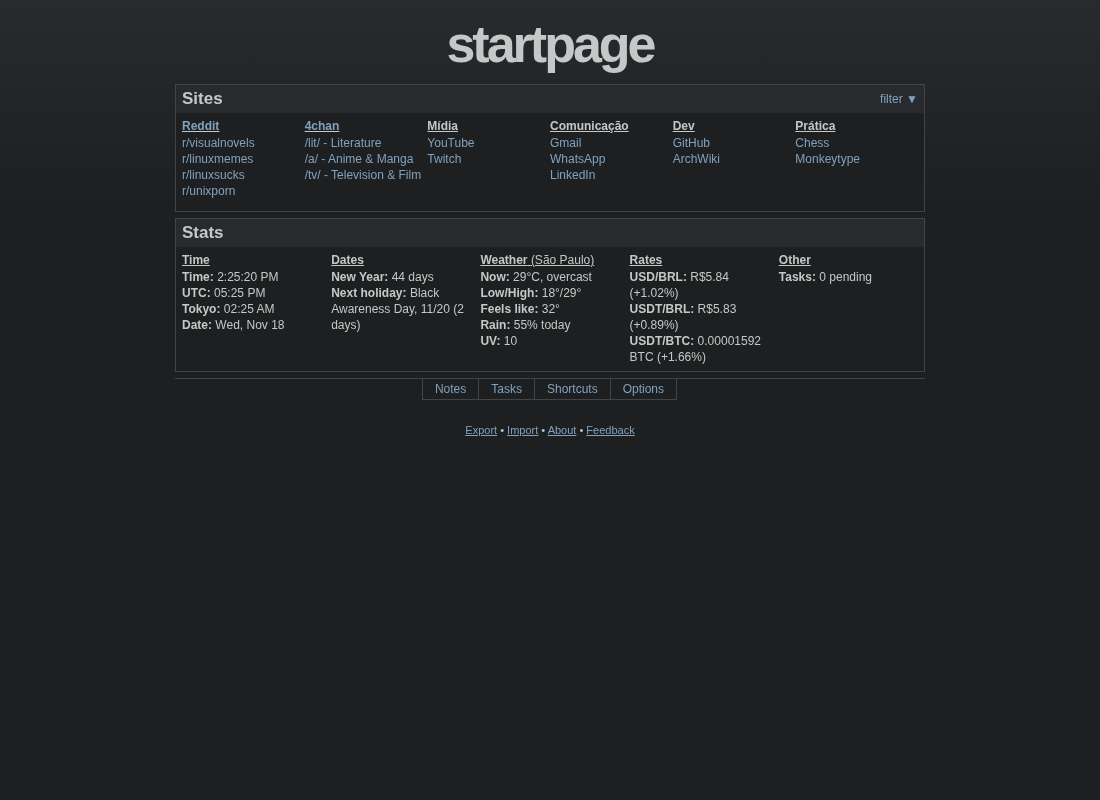
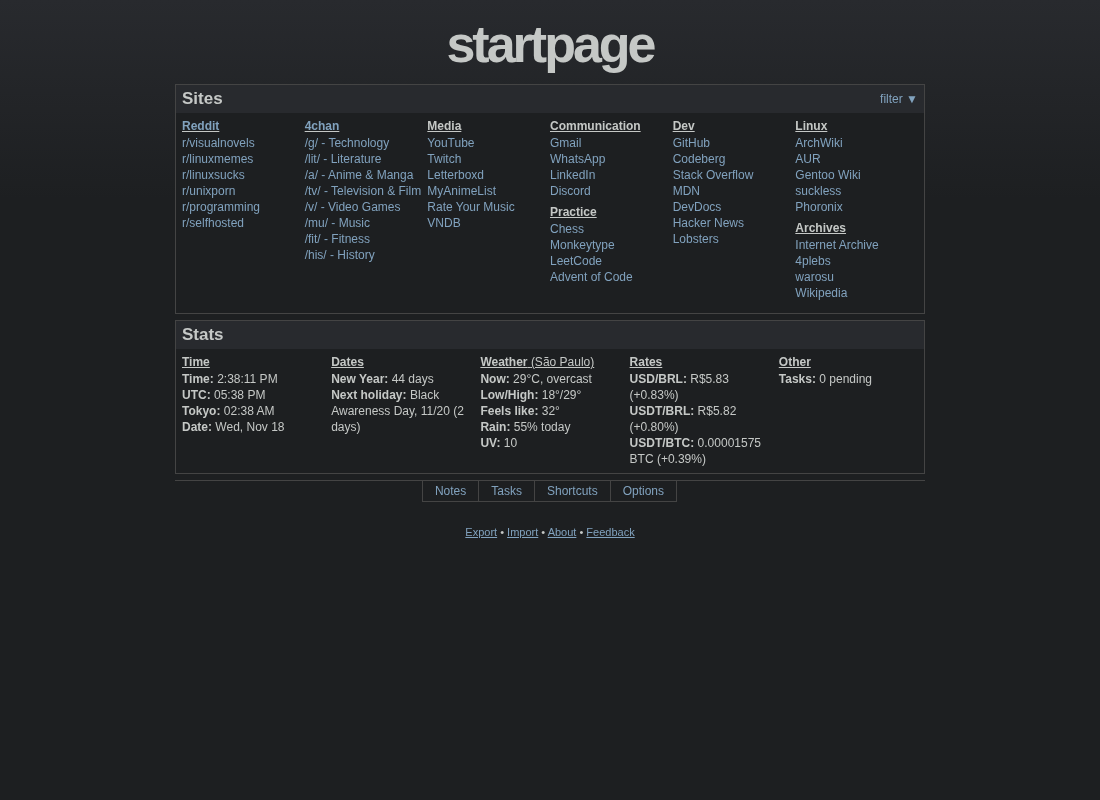
README: plainer text; retake screenshots with an English demo link list

diff --git a/README.md b/README.md
@@ -1,58 +1,59 @@
 # startpage
 
-I've been spending a lot of time on 4chan lately, and at some point I thought: why not make my browser start page look like it?
-So here it is, a start page that borrows 4chan's design and decided to be useful.
-One `index.html`, no build step, no server, no framework. Just open it and go.
+I've been using 4chan a lot lately and wanted a browser start page with the same look, so I made one.
+
+It's a single `index.html`. No build, no server, no dependencies.
 
 ![startpage](docs/yotsuba.png)
 
 ## Themes
 
-Three flavours, with or without a picture in the middle:
-
-| Theme | Plain | With display image |
+| Theme | Without image | With image |
 |---|---|---|
 | Yotsuba | ![](docs/yotsuba.png) | ![](docs/yotsuba-image.png) |
 | Yotsuba B | ![](docs/yotsuba-b.png) | ![](docs/yotsuba-b-image.png) |
 | Dark | ![](docs/dark.png) | ![](docs/dark-image.png) |
 
-## What it does
+## Features
 
-- **Sites** in tidy columns that stretch to fill the board. Edit them as JSON in Options.
-- **Stats**: clock, extra time zones, countdowns, next public holiday, weather (pick what you care about: low/high, feels like, rain, UV, humidity, wind, sunrise/sunset) and currency rates, crypto included (`USDT/BRL`, `USDT/BTC`…).
-- **Notes** and **Tasks** that save as you type.
-- **filter ▼ → Use Frames** for an old-school sidebar with every link.
-- **Options** in a draggable popup. Type `!blank` as the title if you want no title at all.
-- Keyboard: `n` notes, `t` tasks, `o` options, `f` frames, `Esc` to back out.
+- Links grouped by category, edited as JSON in Options. Columns adjust to the width.
+- Stats: time, extra time zones, date, countdowns, next holiday, weather, currency rates (fiat and crypto), pending tasks.
+- Weather fields are selectable: now, low/high, feels like, rain, UV, humidity, wind, sunrise/sunset.
+- Notes and tasks, saved automatically.
+- Optional image between Sites and Stats.
+- Sidebar with all links (filter ▼ → Use Frames).
+- Options open in a draggable popup. Title `!blank` hides the title.
+- Shortcuts: `n` notes, `t` tasks, `o` options, `f` frames, `Esc` close.
 
 | Frames | Options |
 |---|---|
 | ![](docs/frames.png) | ![](docs/options.png) |
 
-## Use it
+## Usage
 
-Point your browser's home page at the file:
+Set the browser home page to:
 
 ```
 file:///path/to/startpage/index.html
 ```
 
-- **Firefox:** Settings → Home → Homepage and new windows → Custom URLs.
-- **Chrome:** Settings → On startup → Open a specific page.
+- Firefox: Settings → Home → Homepage and new windows → Custom URLs.
+- Chrome: Settings → On startup → Open a specific page.
 
-Want it on every new tab too? You'll need an extension such as *New Tab Override*, since browsers won't let a local file be the new tab page on their own.
+Browsers don't allow a local file as the new tab page; for that you need an extension like New Tab Override.
 
-## Your data
+## Data
 
-Everything (settings, notes, tasks, the uploaded image) lives in your browser's `localStorage`. Nothing leaves your machine except the weather, rate and holiday lookups.
-Moving the file, switching browsers or clearing site data starts you from scratch, so hit **Export** now and then and **Import** when you need it back.
+Settings, notes, tasks and the uploaded image are stored in the browser's `localStorage`. Moving the file, changing browsers or clearing site data resets everything, so use Export/Import to back up.
 
-## Thanks
+The only network requests are for weather, rates and holidays.
+
+## Credits
 
 - Weather: [Open-Meteo](https://open-meteo.com)
-- Rates: [AwesomeAPI](https://docs.awesomeapi.com.br) and [CoinGecko](https://www.coingecko.com)
+- Rates: [AwesomeAPI](https://docs.awesomeapi.com.br), [CoinGecko](https://www.coingecko.com)
 - Holidays: [Nager.Date](https://date.nager.at)
-- Look: shamelessly inspired by 4chan's Yotsuba themes
+- Design based on 4chan's Yotsuba themes
 - Screenshot image: wizard pug by Dave Henniker
 
-Found a bug or have an idea? Open an [issue](https://github.com/olbaplegal/startpage/issues).
+Bugs and ideas: [issues](https://github.com/olbaplegal/startpage/issues).
